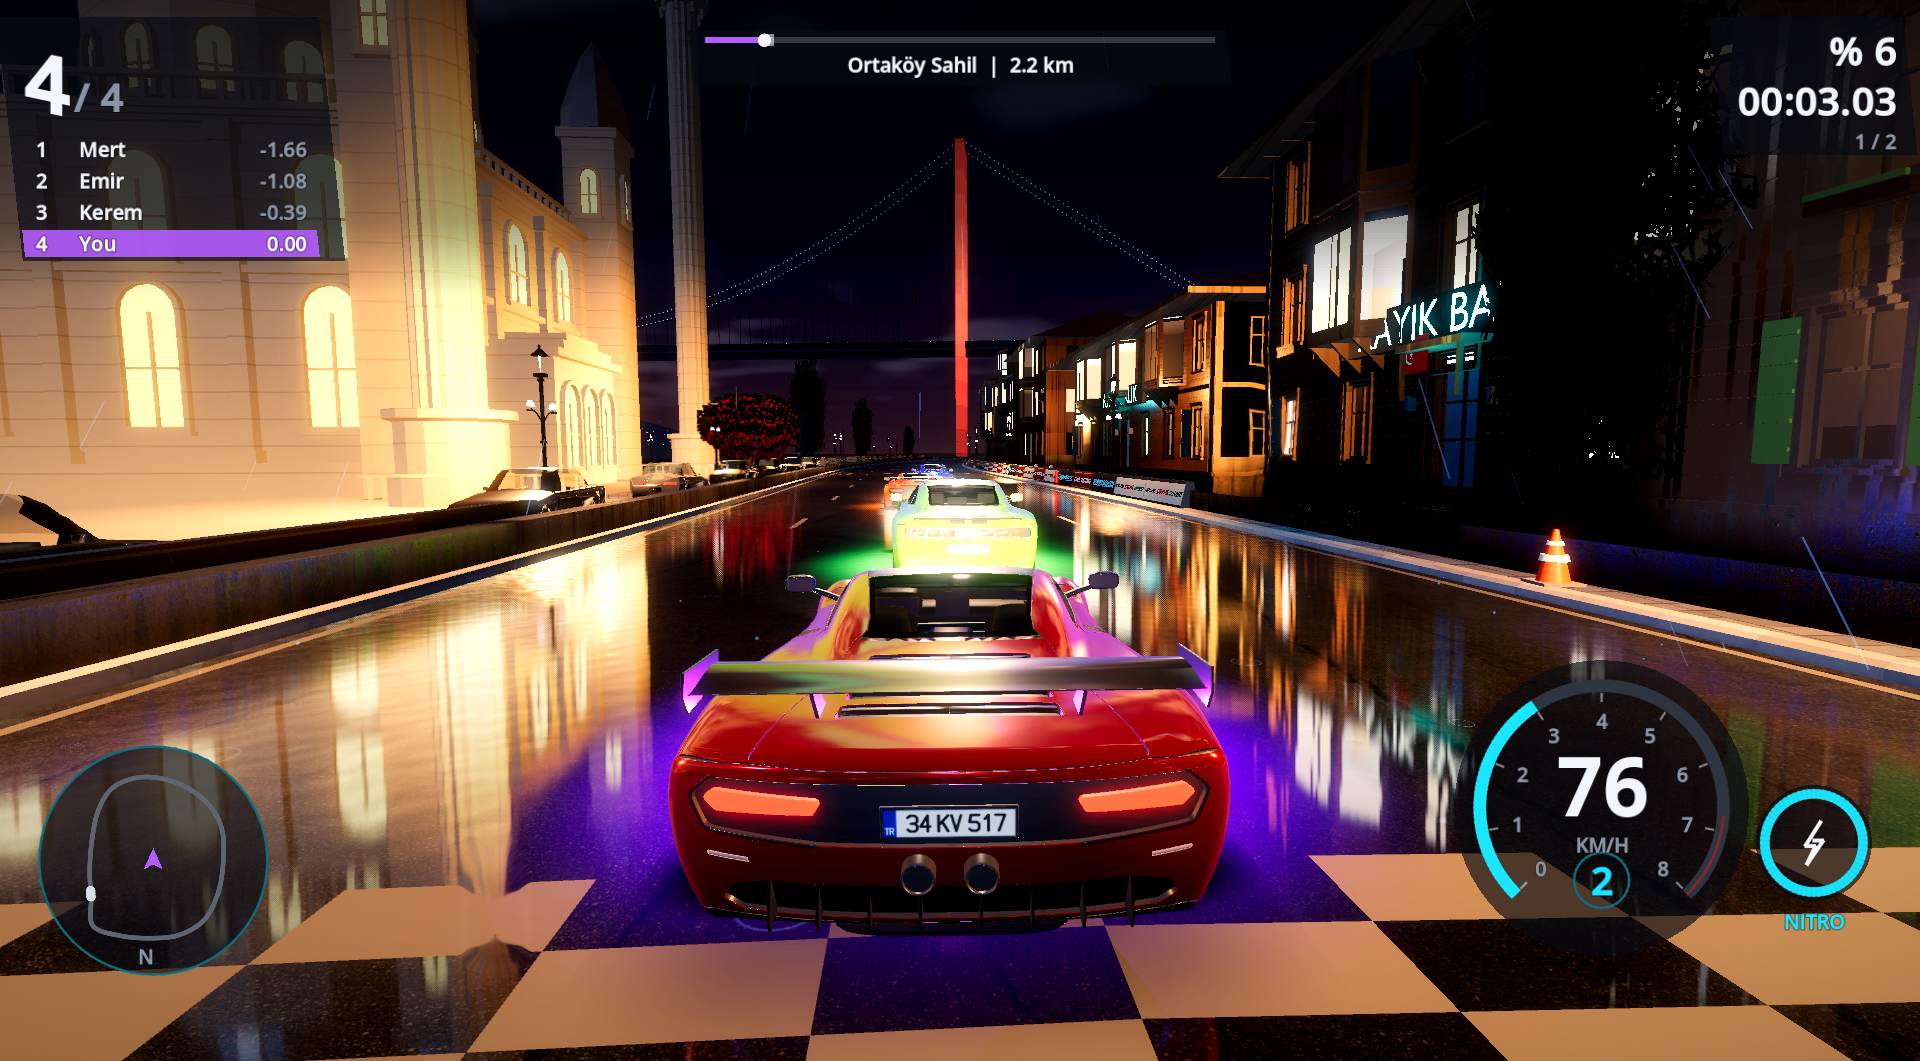
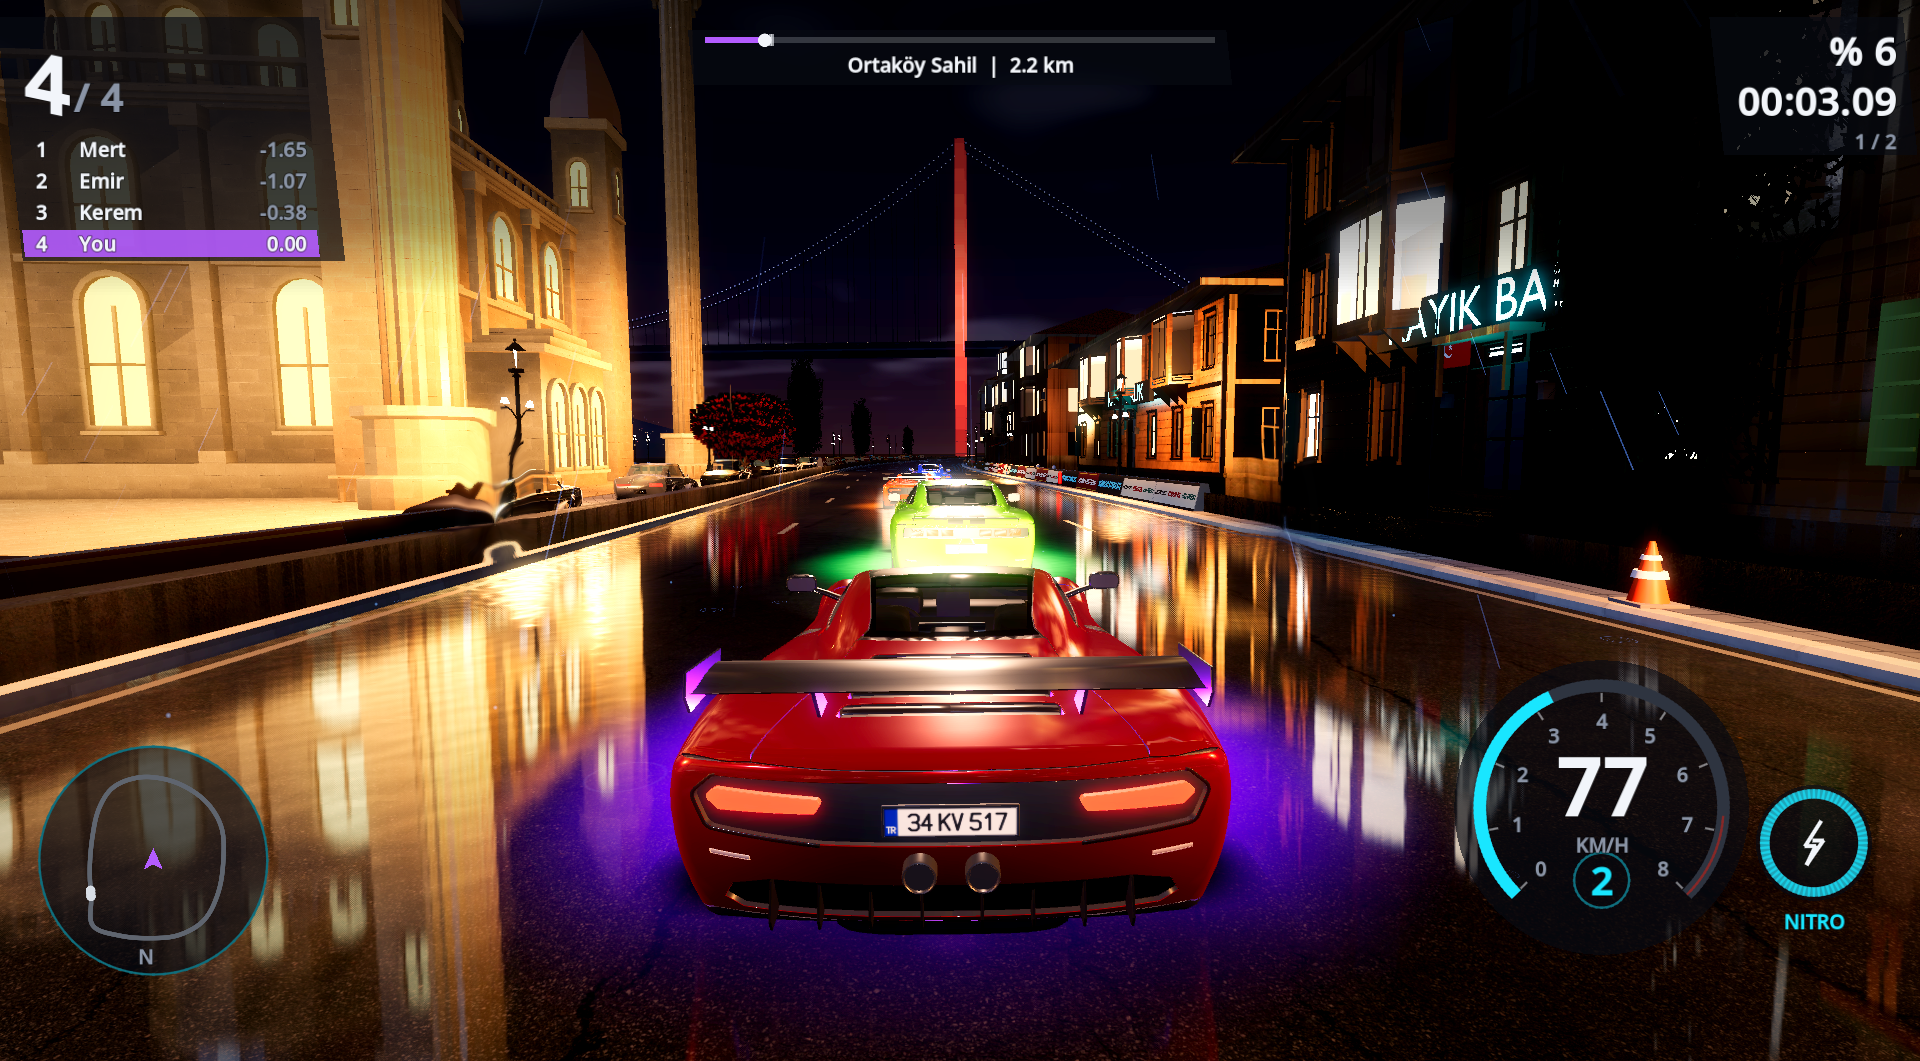
Evidence refresh after the stone, AO and day-light pass: 309 tests green, peaks 395 draws / 431k primitives

diff --git a/evidence/PROGRESS.md b/evidence/PROGRESS.md
@@ -1,11 +1,11 @@
 # Graphics rescue progress (max 30 lines)
 
-- HEAD: f705929 on feature/vertical-slice (last pushed c191d50; no push since the rescue package arrived). Main untouched.
+- HEAD: 3ca478f on feature/vertical-slice (last pushed c191d50; no push since the rescue package arrived). Main untouched.
 - Engine: Godot 4.7.2 stable, Mobile renderer. Device: Windows 11, RTX 5060 Ti 8 GB. No Mac, no iPhone test.
 - Run the benchmark: `godot --audio-driver Dummy --path game --resolution 1920x1080 --position 20000,0 res://devtools/capture_boot.tscn -- --capture=ortakoy_benchmark [--tod=day|sunset|night]`
-- Last valid state: 307 tests, 0 failed (evidence/test.log); asset manifest 532 records, 0 failing; third_party_assets.json 0 errors.
+- Last valid state: 309 tests, 0 failed (evidence/test.log); asset manifest 534 records, 0 failing; third_party_assets.json 0 errors.
 - Evidence (real engine captures): evidence/before.png, after_day.png, after_night.png, gameplay.png; all 15 benchmark shots in evidence/screens/ortakoy_benchmark/; Blender previews in evidence/car_preview/ and assets_src/third_party/vinish_cars/renders/.
-- Performance, night gameplay shot (3 licensed rivals): 186 fps, 5.39 ms avg, 6.92 ms p95, 397 draws, 399k primitives (desktop, uncapped, not iPhone).
+- Performance, night gameplay shot (3 licensed rivals): 320 fps, 3.13 ms avg, 4.07 ms p95, 395 draws, 416k primitives; peak of all shots 431k primitives of 450k (desktop, uncapped, not iPhone).
 
 ## Gates (MIDNIGHT_RESCUE/03_QUALITY_GATE.md)
 - G0 baseline: done. G1 car: six licensed CC BY 4.0 cars in the game (starter Noctra Tayfun; rivals drawn from them), credits shown in settings.
@@ -14,9 +14,9 @@
 - G4 gameplay: real race, live HUD, 306 regression tests green. G5: desktop numbers only. G6: waiting for the owner's review.
 
 ## Three open flaws
-1. Houses and roofs still read simple in daylight (geometry, not lighting).
+1. House fronts and roofs are still simple from the road; primitive headroom is 4 %, so more geometry needs cuts elsewhere (mirror pass, LOD ranges).
 2. Mosque stone is flat cream by day; amber indicators on the licensed cars do not glow; old saves keep the Sable until the free Tayfun is picked in the garage.
-3. No spectators, no rain beads on paint, no puddle break-up on the road.
+3. Trees are dark card clusters; no spectators; no rain beads on paint.
 
 ## Next single task
 Owner review of the captures (gate G6). Then: house roofs and facade depth, or spectators, by the owner's choice.
